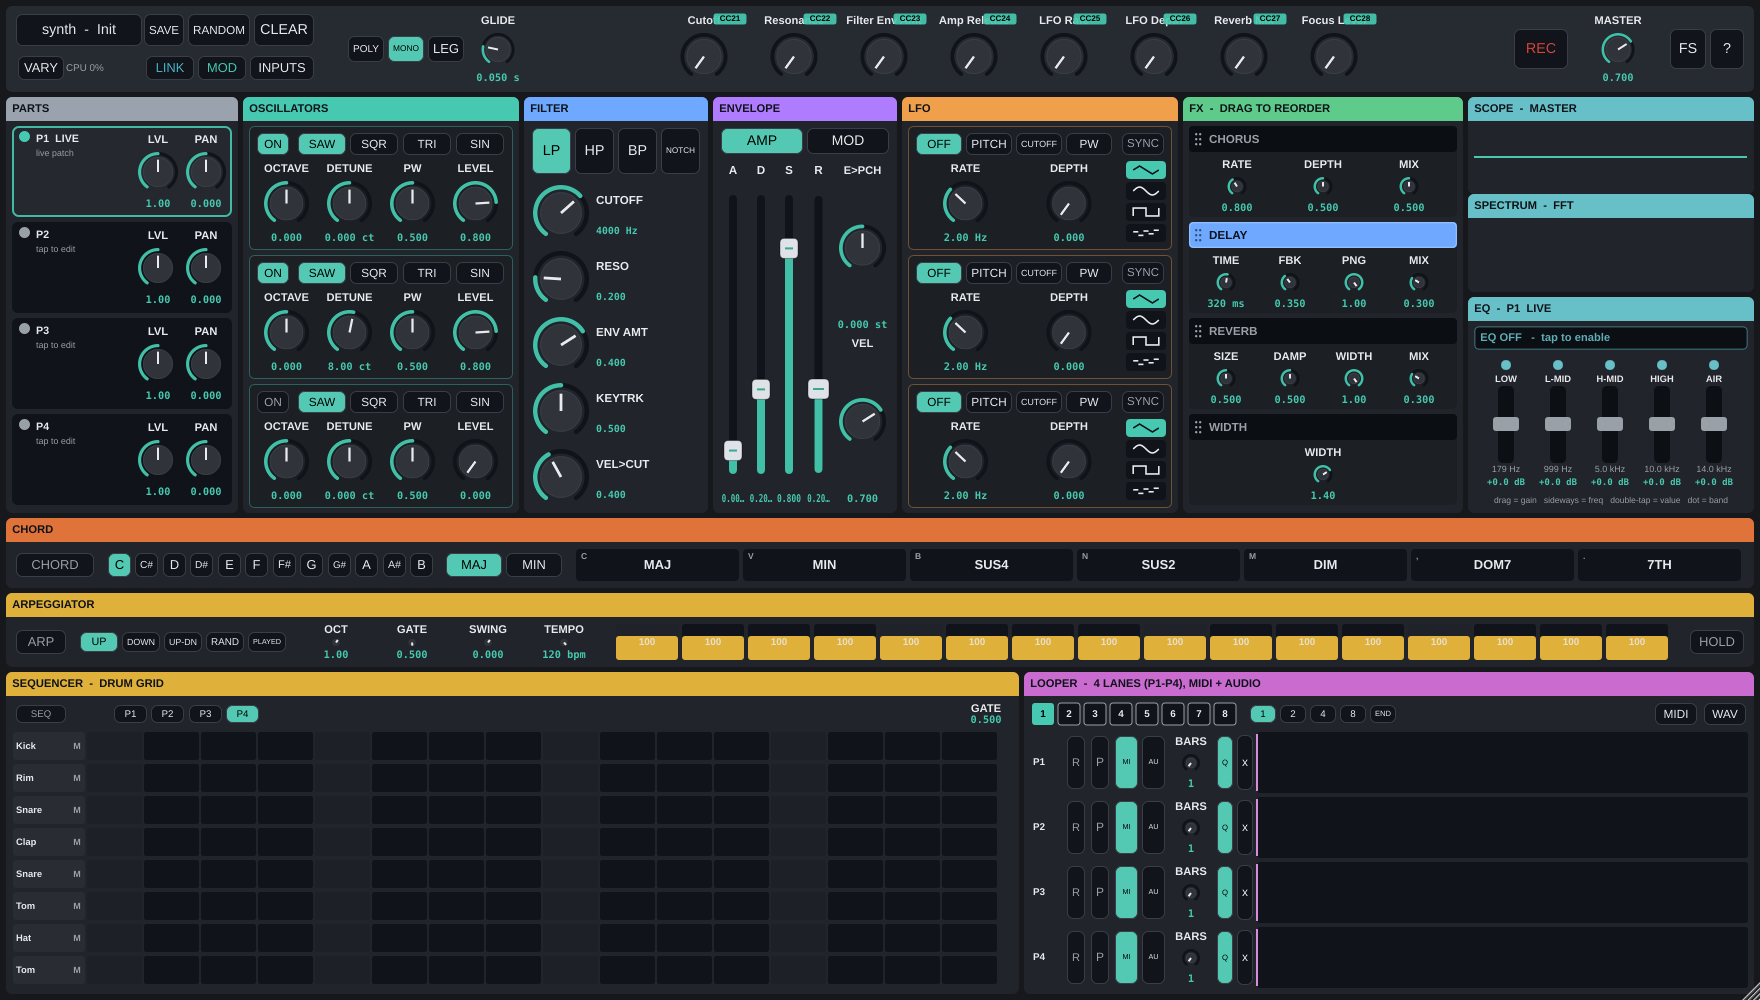
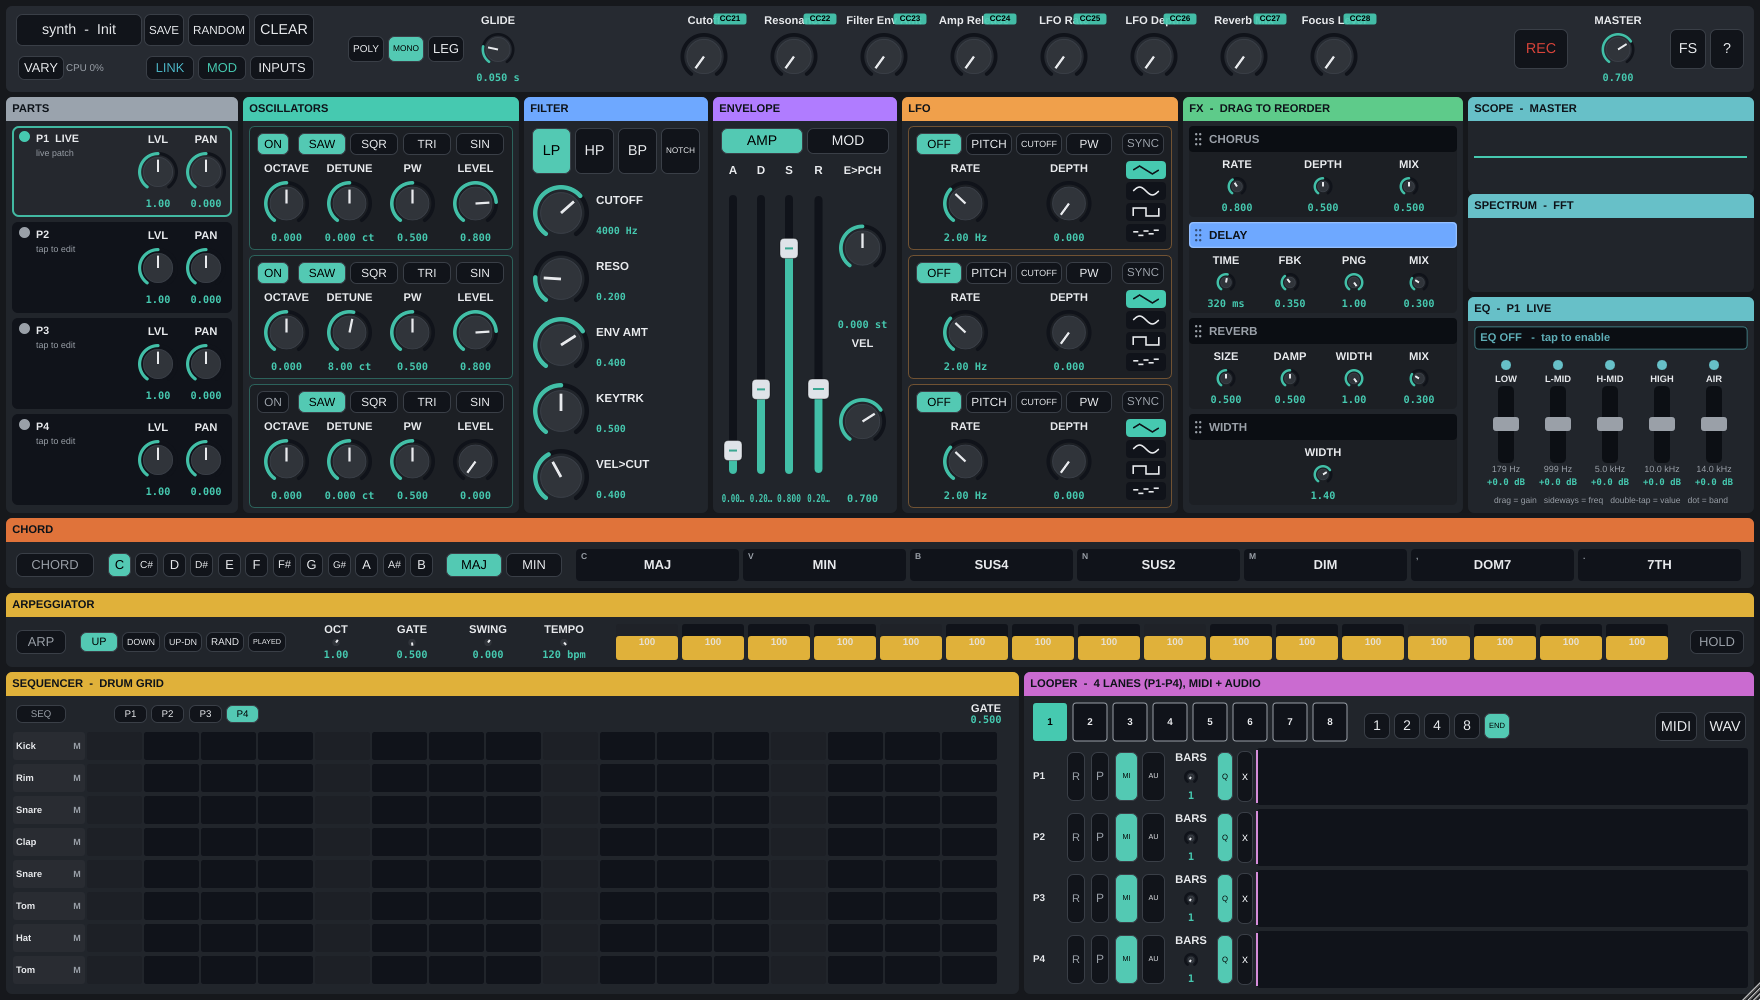
J3 feedback: bigger scene buttons, wait-for-parts launch, start-from-top
Hands-on refinements to scenes:

- Scene buttons are now the primary control: the looper top bar is taller
  (26 -> 42 px) and the buttons wider (26 -> 40 px); the lane rows below give
  up ~10% of their height. The launch-quantum selector + exports centre in the
  taller bar.

- A single tap waits for ALL parts to finish before switching. The default
  launch quantum is now "Loop end" (wait for the longest playing loop), and a
  switch NEVER engages while any lane is recording — so an in-flight take
  completes in the current scene first. Shorter quanta (1/2/4/8 bar) stay
  selectable. Bars are counted on the loop clock (which rewinds per switch) so
  a quantum lands on the new scene's own grid.

- A newly-activated scene starts from its BEGINNING: engageSceneFlip calls
  looper.rewind() (position 0, all lanes armed) and re-anchors the step
  sequencer, so loops/pattern start at the downbeat instead of resuming
  mid-phrase.

The earlier record-crosses-flip carry-forward is superseded by the wait-for-
recording rule (a switch defers until the take finishes). Rewrote the edge
test accordingly and added a start-from-beginning test (loopPlayhead ~0 right
after a switch). Scene click-torture still ~0.12 vs the 0.35 ceiling.

Both gates green: Release 444/444 + pluginval 8, sanitizer + soak memory-
stable. Goldens bit-identical (scenes idle by default).

Changed region(s): [[0.5625, 0.682, 0.875, 0.899], [0.625, 0.93, 0.7188, 0.961], [0.9375, 0.713, 1.0, 0.744]]

diff --git a/tests/plugin/test_scenes.cpp b/tests/plugin/test_scenes.cpp
@@ -124,40 +124,52 @@ TEST_CASE ("scene: re-tapping a pending scene cancels the switch", "[plugin][sce
     REQUIRE (p.activeScene() == 0);                  // never switched
 }
 
-TEST_CASE ("scene edge rule: a recording crossing the flip lands in the NEW scene", "[plugin][scene][j3][edge]")
+TEST_CASE ("scene: a switch waits for an in-progress recording to finish (all parts complete)", "[plugin][scene][j3][edge]")
 {
     VASynthProcessor p; p.prepareToPlay (48000.0, 128);
     setVal (p, ParamID::tempo, 240.0f);              // bar = 48000/128 = 375 blocks; keeps the take short
-    setVal (p, ParamID::sceneQuant, 0.0f);           // 1-bar launch quantum
+    setVal (p, ParamID::sceneQuant, 0.0f);           // even at the 1-bar quantum, a take defers the switch
     p.apvts.getParameter (ParamID::loopBars)->setValueNotifyingHost (
-        p.apvts.getParameter (ParamID::loopBars)->convertTo0to1 (1.0f));   // lane 0 = choice index 1 == 2 bars
+        p.apvts.getParameter (ParamID::loopBars)->convertTo0to1 (1.0f));   // lane 0 = 2 bars
     Driver d (p); d.run (10);
 
-    // Arm a 2-bar recording on lane 0 and wait for the one-shot to actually ENGAGE (at the lane's
-    // 2-bar downbeat). loopRecDisplayState: 0 idle, 1 armed, 2 recording.
+    // Roll a 2-bar take on lane 0.
     set01 (p, ParamID::loopRec, 1.0f);
     int guard = 0;
     while (p.loopRecDisplayState (0) != 2 && guard++ < 4000) d.run (1);
-    REQUIRE (p.loopRecDisplayState (0) == 2);         // take is rolling
-    p.routeNoteOn (60, 0.9f, 0); d.run (4); p.routeNoteOff (60, 0);   // a note early in the take
-    INFO ("after note: events=" << p.loopLaneEventCount (0) << " recState=" << p.loopRecDisplayState (0));
-    REQUIRE (p.loopLaneEventCount (0) > 0);            // the note was captured into the take
+    REQUIRE (p.loopRecDisplayState (0) == 2);
+    p.routeNoteOn (60, 0.9f, 0); d.run (4); p.routeNoteOff (60, 0);
+    REQUIRE (p.loopLaneEventCount (0) > 0);
 
-    // Launch scene 1: with a 1-bar quantum inside a 2-bar take, the flip lands MID-take.
+    // Launch scene 1 mid-take: the switch must NOT happen while the take is still recording.
     p.launchScene (1);
-    guard = 0;
-    while (p.activeScene() != 1 && guard++ < 4000) d.run (1);
-    REQUIRE (p.activeScene() == 1);                   // switched during the recording
-    INFO ("after flip: events=" << p.loopLaneEventCount (0) << " recState=" << p.loopRecDisplayState (0));
-
-    // Let the take finish (one-shot auto-stops at the 2-bar boundary, after the flip).
-    guard = 0;
-    while (p.loopRecDisplayState (0) == 2 && guard++ < 4000) d.run (1);
-    d.run (5);
-    INFO ("after complete: events=" << p.loopLaneEventCount (0));
-    // The completed take is in the NEW scene (1), and did NOT split back into scene 0.
-    REQUIRE (p.loopLaneHasContent (0));
-    p.launchScene (0); d.run (2 * kBlocksPerBar);     // (kBlocksPerBar computed @120; ample at 240)
+    d.run (200);                                      // still recording -> no switch yet
+    REQUIRE (p.loopRecDisplayState (0) == 2);
     REQUIRE (p.activeScene() == 0);
-    REQUIRE_FALSE (p.loopLaneHasContent (0));          // scene 0 never received the crossing take
+
+    // Once the take finishes (in scene 0), the deferred switch engages.
+    guard = 0;
+    while (p.activeScene() != 1 && guard++ < 6000) d.run (1);
+    REQUIRE (p.activeScene() == 1);
+    // The take stayed in the scene it was recorded in (0), not the one we switched to.
+    p.launchScene (0); d.run (3 * kBlocksPerBar);
+    REQUIRE (p.activeScene() == 0);
+    REQUIRE (p.loopLaneHasContent (0));
+}
+
+TEST_CASE ("scene: a newly-activated scene starts from the beginning (loop rewinds)", "[plugin][scene][j3]")
+{
+    VASynthProcessor p; p.prepareToPlay (48000.0, 128);
+    setVal (p, ParamID::tempo, 120.0f);
+    setVal (p, ParamID::sceneQuant, 0.0f);           // 1-bar quantum for a deterministic engage
+    Driver d (p);
+    d.run (300);                                      // advance well into a bar so the phase is non-zero
+    REQUIRE (p.loopPlayhead (0) > 0.1f);              // mid-loop before the switch
+
+    p.launchScene (1);
+    int guard = 0;
+    while (p.activeScene() != 1 && guard++ < 2000) d.run (1);
+    REQUIRE (p.activeScene() == 1);
+    d.run (1);
+    REQUIRE (p.loopPlayhead (0) < 0.02f);            // the new scene begins at its downbeat, not mid-loop
 }

diff --git a/Source/PluginProcessor.cpp b/Source/PluginProcessor.cpp
@@ -497,7 +497,7 @@ void VASynthProcessor::engageSceneFlip (int from, int to, bool chordOn)
 
     for (int L = 0; L < SynthEngine::maxParts; ++L)
     {
-        if (loopRecording[(std::size_t) L]) continue;    // in-flight recording carries into scene `to`
+        if (loopRecording[(std::size_t) L]) continue;    // defensive: a switch never engages mid-record
         S.lanes[(std::size_t) L] = looper.laneContent (L);          // save outgoing clip
         looper.setLaneContent (L, D.lanes[(std::size_t) L]);        // load incoming clip
         flushLoopNotesForPart (L, chordOn);                         // release anything the old clip held
@@ -508,6 +508,12 @@ void VASynthProcessor::engageSceneFlip (int from, int to, bool chordOn)
     // transport: snapshot outgoing live params, request the incoming ones be restored (message thread)
     captureLiveTransportInto (S);
     S.has = liveHasContent();
+
+    // J3 feedback: a newly-activated scene starts from the BEGINNING — rewind the loop transport to
+    // its downbeat and re-anchor the drum sequencer, so nothing resumes mid-phrase.
+    looper.rewind();
+    sceneLastBar = 0; sceneClockPrimed = false;   // re-prime the launch-quantum bar tracker at the new origin
+    if (seq.enabled()) seq.realign();
 
     activeSceneAudio = to;
     activeSceneDisp.store (to, std::memory_order_relaxed);
@@ -2168,15 +2174,22 @@ void VASynthProcessor::processBlock (juce::AudioBuffer<float>& buffer,
     //     (before the seq config + looper block below, so the swapped pattern/clips take effect now).
     serviceSceneCommands (chordOn);
     {
-        const int  bar    = (int) std::floor (transportBeats / 4.0);
+        // Bars are counted on the LOOP clock (which rewinds to 0 on each scene switch), so a
+        // quantum lands on the new scene's own grid rather than the free-running song bar.
+        const double barLen = juce::jmax (1.0, samplesPerBeat * 4.0);
+        const int  bar    = (int) (looper.position() / barLen);
         const bool newBar = sceneClockPrimed && bar != sceneLastBar;   // first block primes (no false boundary)
         sceneLastBar = bar; sceneClockPrimed = true;
         const int pend = pendingScene.load (std::memory_order_acquire);
-        if (pend >= 0 && pend != activeSceneAudio)
+        // A scene never switches while any part is still recording — a single tap waits until ALL
+        // parts (the drum pattern AND every loop, including an in-flight take) have finished.
+        bool anyRecording = false;
+        for (int L = 0; L < SynthEngine::maxParts; ++L) anyRecording |= loopRecording[(std::size_t) L];
+        if (pend >= 0 && pend != activeSceneAudio && ! anyRecording)
         {
-            const int q = (int) rp (apvts, ID::sceneQuant);   // 0..3 = 1/2/4/8 bar, 4 = Loop end
+            const int q = (int) rp (apvts, ID::sceneQuant);   // 0..3 = 1/2/4/8 bar, 4 = Loop end (default)
             bool boundary = false;
-            if (q >= 4)   // Loop end: engage when the longest PLAYING lane hits its own downbeat
+            if (q >= 4)   // Loop end: wait for the LONGEST playing loop to reach its downbeat
             {
                 int longest = -1, longestLen = 0;
                 for (int L = 0; L < SynthEngine::maxParts; ++L)

diff --git a/Source/UI/BottomZones.h b/Source/UI/BottomZones.h
@@ -449,14 +449,17 @@ public:
     void resized() override
     {
         auto c = chrome::sectionContent (getLocalBounds());
-        // Top bar: [SCENE 1..8]  [launch quantum]  ......  [MIDI][WAV].
-        auto top = c.removeFromTop (26); c.removeFromTop (5);
-        expoWav.setBounds (top.removeFromRight (46).reduced (2, 2)); top.removeFromRight (3);
-        expo.setBounds    (top.removeFromRight (46).reduced (2, 2));
+        // Top bar: [SCENE 1..8]  [launch quantum]  ......  [MIDI][WAV]. Taller + wider than the lane
+        // rows so the scenes read as the primary control (the rows below give up ~10% of their height).
+        auto top = c.removeFromTop (42); c.removeFromTop (5);
+        auto exports = top.removeFromRight (98); exports.removeFromTop (exports.getHeight() / 2 - 12);
+        expoWav.setBounds (exports.removeFromRight (46).reduced (2, 2)); exports.removeFromRight (3);
+        expo.setBounds    (exports.removeFromRight (46).reduced (2, 2));
         for (int i = 0; i < VASynthProcessor::kScenes; ++i)
-            sceneBtn[(std::size_t) i]->setBounds (top.removeFromLeft (26).reduced (1, 1));
-        top.removeFromLeft (8);
-        sceneQuant->setBounds (top.removeFromLeft (juce::jmin (155, juce::jmax (60, top.getWidth()))).reduced (2, 2));
+            sceneBtn[(std::size_t) i]->setBounds (top.removeFromLeft (40).reduced (2, 1));
+        top.removeFromLeft (10);
+        auto q = top; q.removeFromTop (q.getHeight() / 2 - 13);
+        sceneQuant->setBounds (q.removeFromLeft (juce::jmin (155, juce::jmax (60, q.getWidth()))).reduced (2, 2));
 
         // Four lane rows: [P# label] [R][P] [MIDI/AUD] [BARS] [Q] [x] [content strip].
         const int rh = juce::jmax (22, (c.getHeight() - (kLanes - 1) * 4) / kLanes);

diff --git a/Source/Parameters.h b/Source/Parameters.h
@@ -435,7 +435,7 @@ inline juce::AudioProcessorValueTreeState::ParameterLayout createParameterLayout
         params.push_back(std::make_unique<Pc>(juce::ParameterID{bb, 1}, juce::String (bb), loopBarChoices, 0));
     // J3: scene launch quantum — when a tapped scene actually switches (aligned to the master bar clock).
     params.push_back(std::make_unique<Pc>(juce::ParameterID{ID::sceneQuant, 1}, "Scene Launch",
-                                          juce::StringArray{ "1 bar", "2 bar", "4 bar", "8 bar", "Loop end" }, 0));
+                                          juce::StringArray{ "1 bar", "2 bar", "4 bar", "8 bar", "Loop end" }, 4));   // default: wait for the longest loop
     for (auto* q : { ID::loopQuant, ID::loopQuant2, ID::loopQuant3, ID::loopQuant4 })   // 1/32 quantize, default ON
         params.push_back(std::make_unique<Pb>(juce::ParameterID{q, 1}, juce::String (q), true));
 

diff --git a/Source/DSP/Looper.h b/Source/DSP/Looper.h
@@ -64,6 +64,10 @@ public:
     bool playing   (int part) const { return part >= 0 && part < kParts && playing_[(std::size_t) part]; }
     bool anyPlaying() const { for (bool b : playing_) if (b) return true; return false; }
 
+    // J3: restart every lane from its downbeat (scene switch) — position 0, all events armed so a
+    // freshly-activated scene plays from the top rather than resuming mid-loop.
+    void rewind() { loopPos = 0; for (int p = 0; p < kParts; ++p) armLane (p); }
+
     void clear (int part) { if (part >= 0 && part < kParts) parts[(std::size_t) part].count = 0; }   // wipe ONE lane
     void clearAll() { for (auto& p : parts) p.count = 0; loopPos = 0; }
     void reset() { clearAll(); for (int i = 0; i < kParts; ++i) { recording_[(std::size_t) i] = false; playing_[(std::size_t) i] = false; } }

diff --git a/CHANGELOG.md b/CHANGELOG.md
@@ -12,13 +12,15 @@ Post-1.0 work on `master` (not yet tagged; the ThinkPad validation is the final 
 - **Scenes (J3).** Eight arrangement snapshots — **loop clips + drum pattern + per-lane
   transport** — as a row of numbered buttons in the looper section. The **active scene is the live
   state**: recordings and pattern edits write into it automatically (no "store" step). **Tap** a
-  scene to launch it; the switch is **quantized** to a selectable boundary — **1 / 2 / 4 / 8 bar**
-  or **Loop end** (waits for the longest playing loop to finish) — and lands phase-locked with no
-  click (held loop notes are flushed at the flip). **Long-press** a scene for a menu: *Copy active
-  scene here* (clone) or *Clear scene*. Launching an empty scene is a valid blank canvas. A
-  recording that crosses a scene switch completes into the new scene. Buttons show empty (outline),
-  filled (has content), pending (blinking), and active (solid). Audio loops aren't captured into
-  scenes in v1 (memory); scene content is session-runtime (exported via MIDI/WAV as before).
+  scene to launch it; the switch is **quantized** and, by default (**Loop end**), waits for the
+  **longest loop in the current scene to finish** so a single tap never cuts a phrase short — and it
+  won't switch until any in-progress **recording** has completed too. A newly-activated scene
+  **starts from its beginning** (the loops rewind to the downbeat rather than resuming mid-phrase),
+  and the flip is click-free (held loop notes are flushed). A shorter quantum (**1 / 2 / 4 / 8 bar**)
+  is selectable if you want faster switches. **Long-press** a scene for a menu: *Copy active scene
+  here* (clone) or *Clear scene*. Launching an empty scene is a valid blank canvas. Buttons show
+  empty (outline), filled (has content), pending (blinking), and active (solid). Audio loops aren't
+  captured into scenes in v1 (memory); scene content is session-runtime (exported via MIDI/WAV).
 - **Hover help tooltips.** Resting the mouse on any control for ~1 s now shows its full name
   (e.g. hovering the looper **R** button shows "Loop Rec", a knob shows "Filter Cutoff"). The
   label comes from the control's parameter, so every knob, selector, and toggle is covered.

diff --git a/docs/phase8-status.md b/docs/phase8-status.md
@@ -330,11 +330,13 @@ focus loss-regain" — for BOTH QWERTY and MIDI controllers (user clarified: any
   `scenes[active]`; the other 7 slots hold snapshots. No store gesture — edits accumulate in the
   active scene. `SceneSlot` = {4 looper lanes, seq cells/vel/notes/mutes, per-lane transport}.
 - **Launch:** `launchScene(i)` arms `pendingScene`; `processBlock` engages it at the `scene_quant`
-  boundary — 1/2/4/8 bar (off the J1 `transportBeats` bar clock, with a priming flag so the first
-  block isn't a false boundary) or **Loop end** (the longest playing lane's wrap). Flip snapshots
-  live→outgoing, loads incoming→live, **skipping recording lanes** so an in-flight take completes
-  into the new scene (the edge rule), and flushes held loop notes (anti-click). Re-tapping a pending
-  or the active scene cancels.
+  boundary — 1/2/4/8 bar or **Loop end (default)**. Bars count on the LOOP clock (`looper.position()`,
+  which rewinds per switch) with a priming flag so the first block isn't a false boundary; Loop-end
+  waits for the longest playing lane's wrap. **A switch never engages while any lane is recording** —
+  a single tap waits for ALL parts (drum pattern + every loop + any in-flight take) to finish. On
+  engage the flip loads the incoming clips + pattern, flushes held loop notes (anti-click), and
+  **`looper.rewind()`s + re-anchors the sequencer so the new scene starts from its downbeat** (per
+  hands-on feedback — no resuming mid-phrase). Re-tapping a pending or the active scene cancels.
 - **Transport params** restore via `juce::AsyncUpdater` (setValueNotifyingHost off the audio
   thread); clips + pattern flip sample-accurately, params settle one message-cycle later.
 - **Commands:** long-press → *Copy active scene here* / *Clear scene*, posted as atomics and run on

diff --git a/README.md b/README.md
@@ -77,8 +77,9 @@ a general-purpose synth that runs in any VST3 host or standalone.
   measure-quantized, dual MIDI + AUDIO, WAV export, with **per-lane loop length 1–32 bars**
   (a short groove loops under a long progression, all locked to one downbeat).
 - **Scenes**: eight arrangement snapshots (loop clips + drum pattern + per-lane transport). The
-  active scene is the live state (edits write straight in); **tap to launch**, quantized to a
-  selectable boundary (1/2/4/8 bar or loop-end) with a click-free, phase-locked switch; long-press
+  active scene is the live state (edits write straight in). **Tap to launch**; by default the switch
+  waits for the current scene's longest loop (and any recording) to finish, then the new scene
+  starts from its downbeat — click-free. A shorter quantum (1/2/4/8 bar) is selectable. Long-press
   to clone or clear. Great for moving between song sections live.
 - **16 factory presets + 6 drums** + user save/load + sound-design Randomize. Loading a
   patch is **sound-only** — it never disturbs the sequencer, looper, tempo, or other parts.
